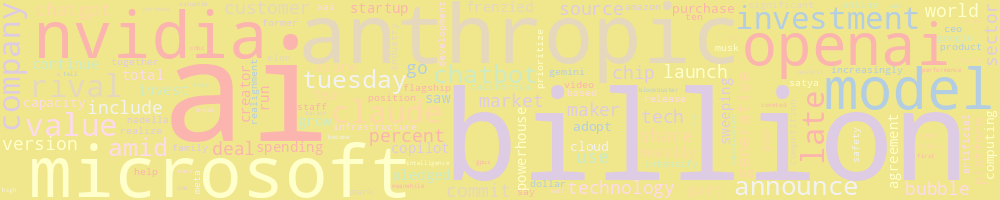
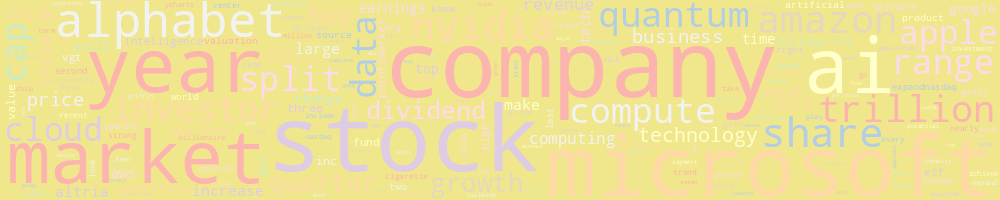
Integrated the analyze function to the stockAnalyzer file

diff --git a/analyze.py b/analyze.py
@@ -1,9 +1,6 @@
 from random_username.generate import generate_username
 import re, nltk, json
-# nltk.download('wordnet')
-# nltk.download('averaged_perceptron_tagger_eng')
 from nltk.corpus import wordnet as wn, stopwords
-# nltk.download('stopwords')
 from nltk.stem import WordNetLemmatizer
 from nltk.sentiment.vader import SentimentIntensityAnalyzer
 from nltk.tokenize import sent_tokenize, word_tokenize
@@ -106,52 +103,54 @@ def getWordsCleaned(POSWordTupes):
             cleansedList.append(wordLamentizer.lemmatize(cleansedword,treeBankPOStoWordnetPos(pos)))
     return cleansedList
 
-# greet the users
-username = getUsername()
-def greetUser(name):
-    print('Welcome, ' + name)
-greetUser(username)
 
 #Get text from file
 articletextRaw = gettextfromfile()
 
-#Tokenize text
-articleSentences = tokinizeArticle(articletextRaw)
-articleWords = tokinizeWords(articleSentences)
-articleWordsPOStag = nltk.pos_tag(articleWords)
+def analyzeAticle(articleTobeAnalyzed):
 
-# get sentence analytics
-searchPattern = '[0-9]|[$%€£]|thousand|million|hundred|profit|loss'
-keySentences = getKeySentences(articleSentences, searchPattern)
-wordsPersentence = getWordsPerSentence(articleSentences)
+    #Tokenize text
+    articleSentences = tokinizeArticle(articleTobeAnalyzed)
+    articleWords = tokinizeWords(articleSentences)
+    articleWordsPOStag = nltk.pos_tag(articleWords)
 
-#get words analytics
-cleanedWordsList = getWordsCleaned(articleWordsPOStag)
+    # get sentence analytics
+    searchPattern = '[0-9]|[$%€£]|thousand|million|hundred|profit|loss'
+    keySentences = getKeySentences(articleSentences, searchPattern)
+    wordsPersentence = getWordsPerSentence(articleSentences)
 
-# Generate word cloud
-separator = ' '
-wordCloudPath = 'results/wordcloud.png'
-wordcloud = WordCloud(width = 1000, height = 200, 
-                      background_color='khaki', random_state = 1, colormap='Pastel1', collocations = False).generate(separator.join(cleanedWordsList))
-wordcloud.to_file(wordCloudPath)
+    #get words analytics
+    cleanedWordsList = getWordsCleaned(articleWordsPOStag)
 
-# find word sentiment
-sentimentResult = sentimentAnalyzer.polarity_scores(articletextRaw)
+    # Generate word cloud
+    separator = ' '
+    wordCloudPath = 'results/wordcloud.png'
+    wordcloud = WordCloud(width = 1000, height = 200, 
+                        background_color='khaki', random_state = 1, colormap='Pastel1', collocations = False).generate(separator.join(cleanedWordsList))
+    wordcloud.to_file(wordCloudPath)
 
-# collate analytics into one dictionary
-finalResult = {
-    'username': username,
-    'data': {
-        'KeySentences': keySentences,
-        'Wordspersentences': round(wordsPersentence, 1),
-        'sentiment': sentimentResult,
-        'Word Cloud path': wordCloudPath
-    },
-    'metadata':{
-        'TotalSentence': len(articleSentences),
-        'TotalWords': len(cleanedWordsList)
+    # find word sentiment
+    sentimentResult = sentimentAnalyzer.polarity_scores(articleTobeAnalyzed)
+
+    # collate analytics into one dictionary
+    finalResult = {
+        'data': {
+            'KeySentences': keySentences,
+            'Wordspersentences': round(wordsPersentence, 1),
+            'sentiment': sentimentResult,
+            'Word Cloud path': wordCloudPath
+        },
+        'metadata':{
+            'TotalSentence': len(articleSentences),
+            'TotalWords': len(cleanedWordsList)
+        }
     }
-}
-finalresultJson = json.dumps(finalResult, indent=4)
-# print testing
-print(finalresultJson)
+    return finalResult
+
+def runOnbegining():
+        
+    # greet the users
+    username = getUsername()
+    def greetUser(name):
+        print('Welcome, ' + name)
+    greetUser(username)

diff --git a/stockAnalyzer.py b/stockAnalyzer.py
@@ -1,7 +1,8 @@
 import yfinance as yf
-import requests
+import requests, json
 from datetime import datetime
 from bs4 import BeautifulSoup
+import analyze
 
 def etractbasicInfo (data):
     keysToExtract = ['longName','website','sector','fullTimeEmployees', 'marketCap', 'totalCash', 'trailingEps' ]
@@ -74,6 +75,13 @@ def getCompanystockInfo (TickerSymbol):
     futureEarningDates = getEarningDates(company)
     newsArticles = getNews(company)
     allNewsArticleText = extarctNewsarticles(newsArticles)
-    print(allNewsArticleText)
-
+    # print(allNewsArticleText)
+    finalResult = analyze.analyzeAticle(allNewsArticleText)
+    print(finalResult)
+    finalresultJson = json.dumps(finalResult, indent=4)
+    # print testing
+    print(finalresultJson)
+    return finalresultJson
 getCompanystockInfo('MSFT')
+
+
